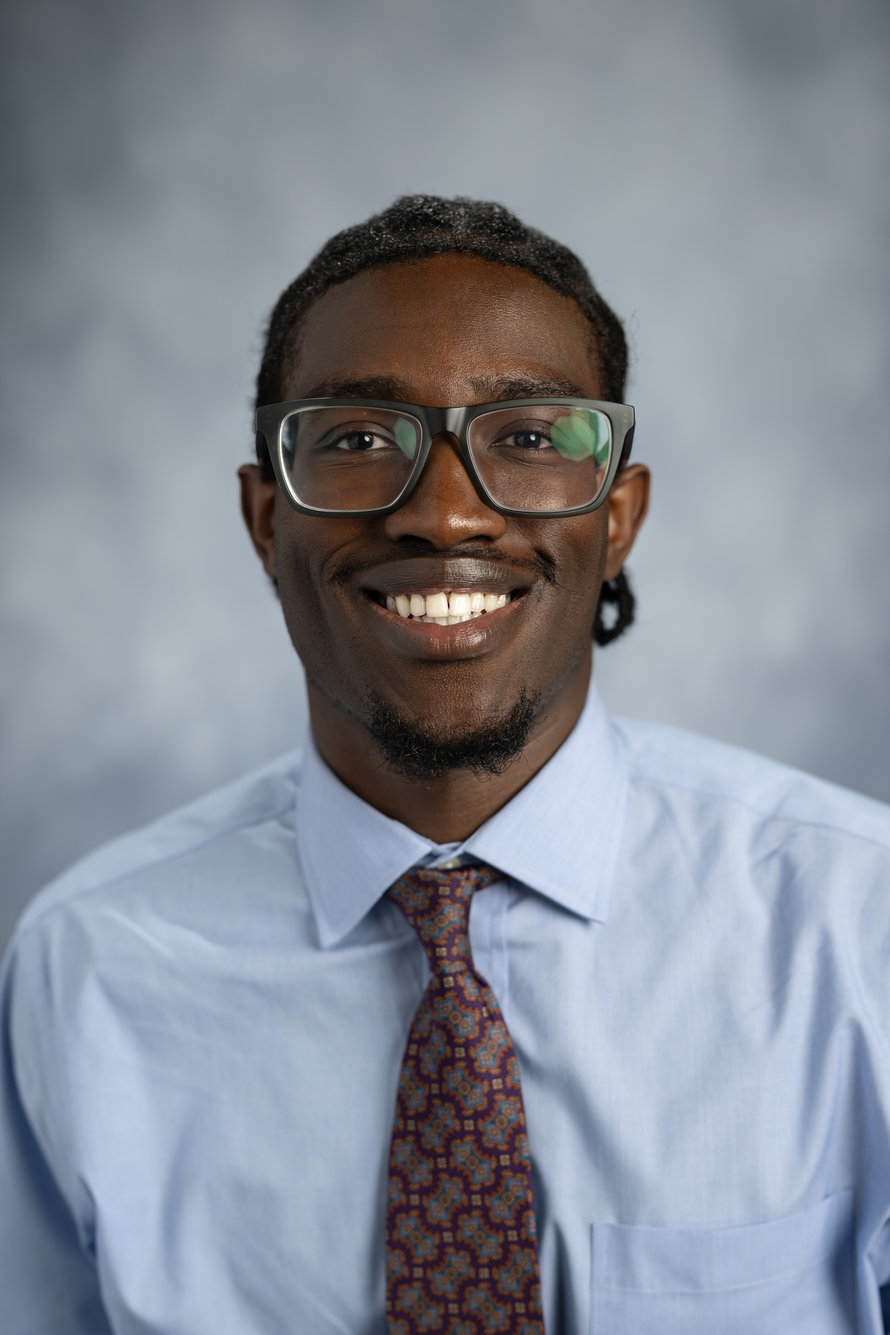
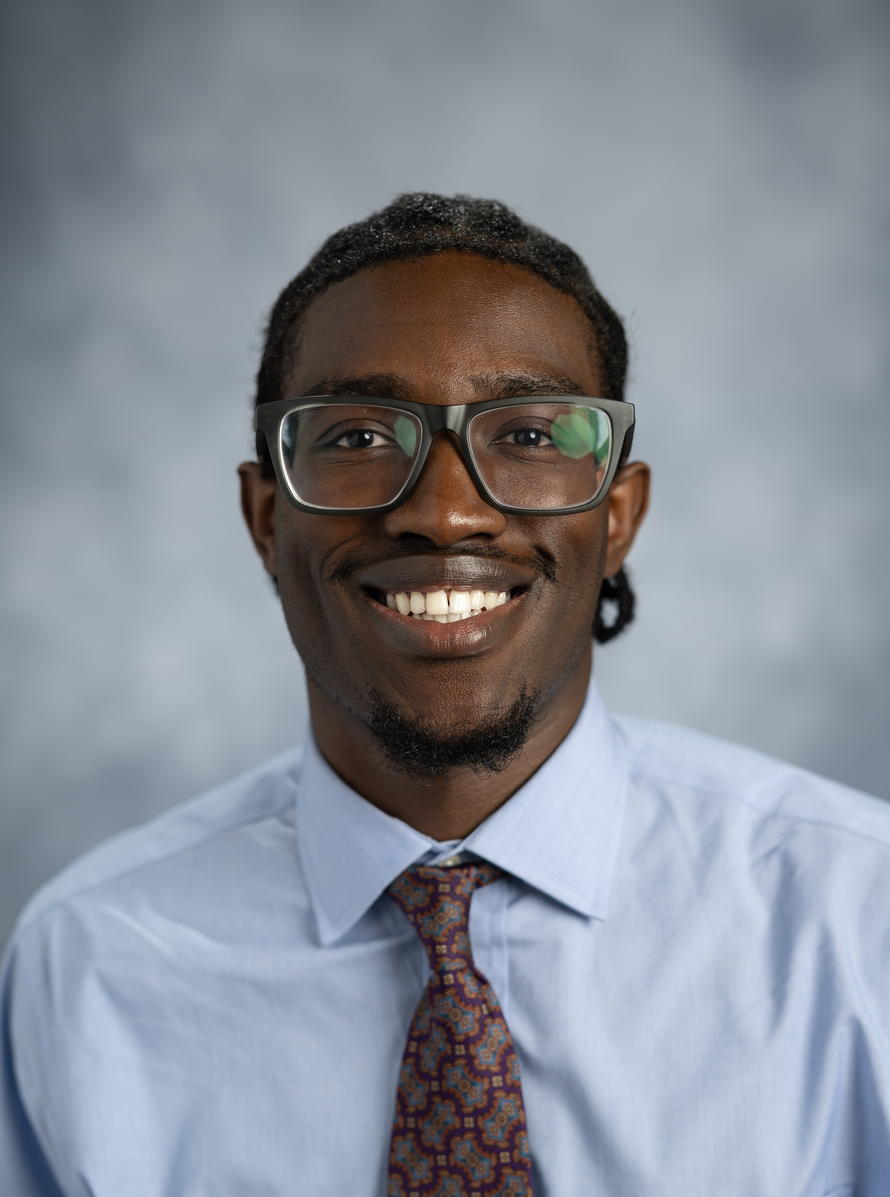
Small fixes

diff --git a/_news/gs_2026-03-25_hank-won-a-best-paper-honorable.md b/_news/gs_2026-03-25_hank-won-a-best-paper-honorable.md
@@ -1,0 +1,8 @@
+---
+layout: post
+date: '2026-03-25 00:00:00-0000'
+inline: true
+related_posts: false
+---
+
+Hank won a best paper honorable mention for his work accepted to CHI 2026!
